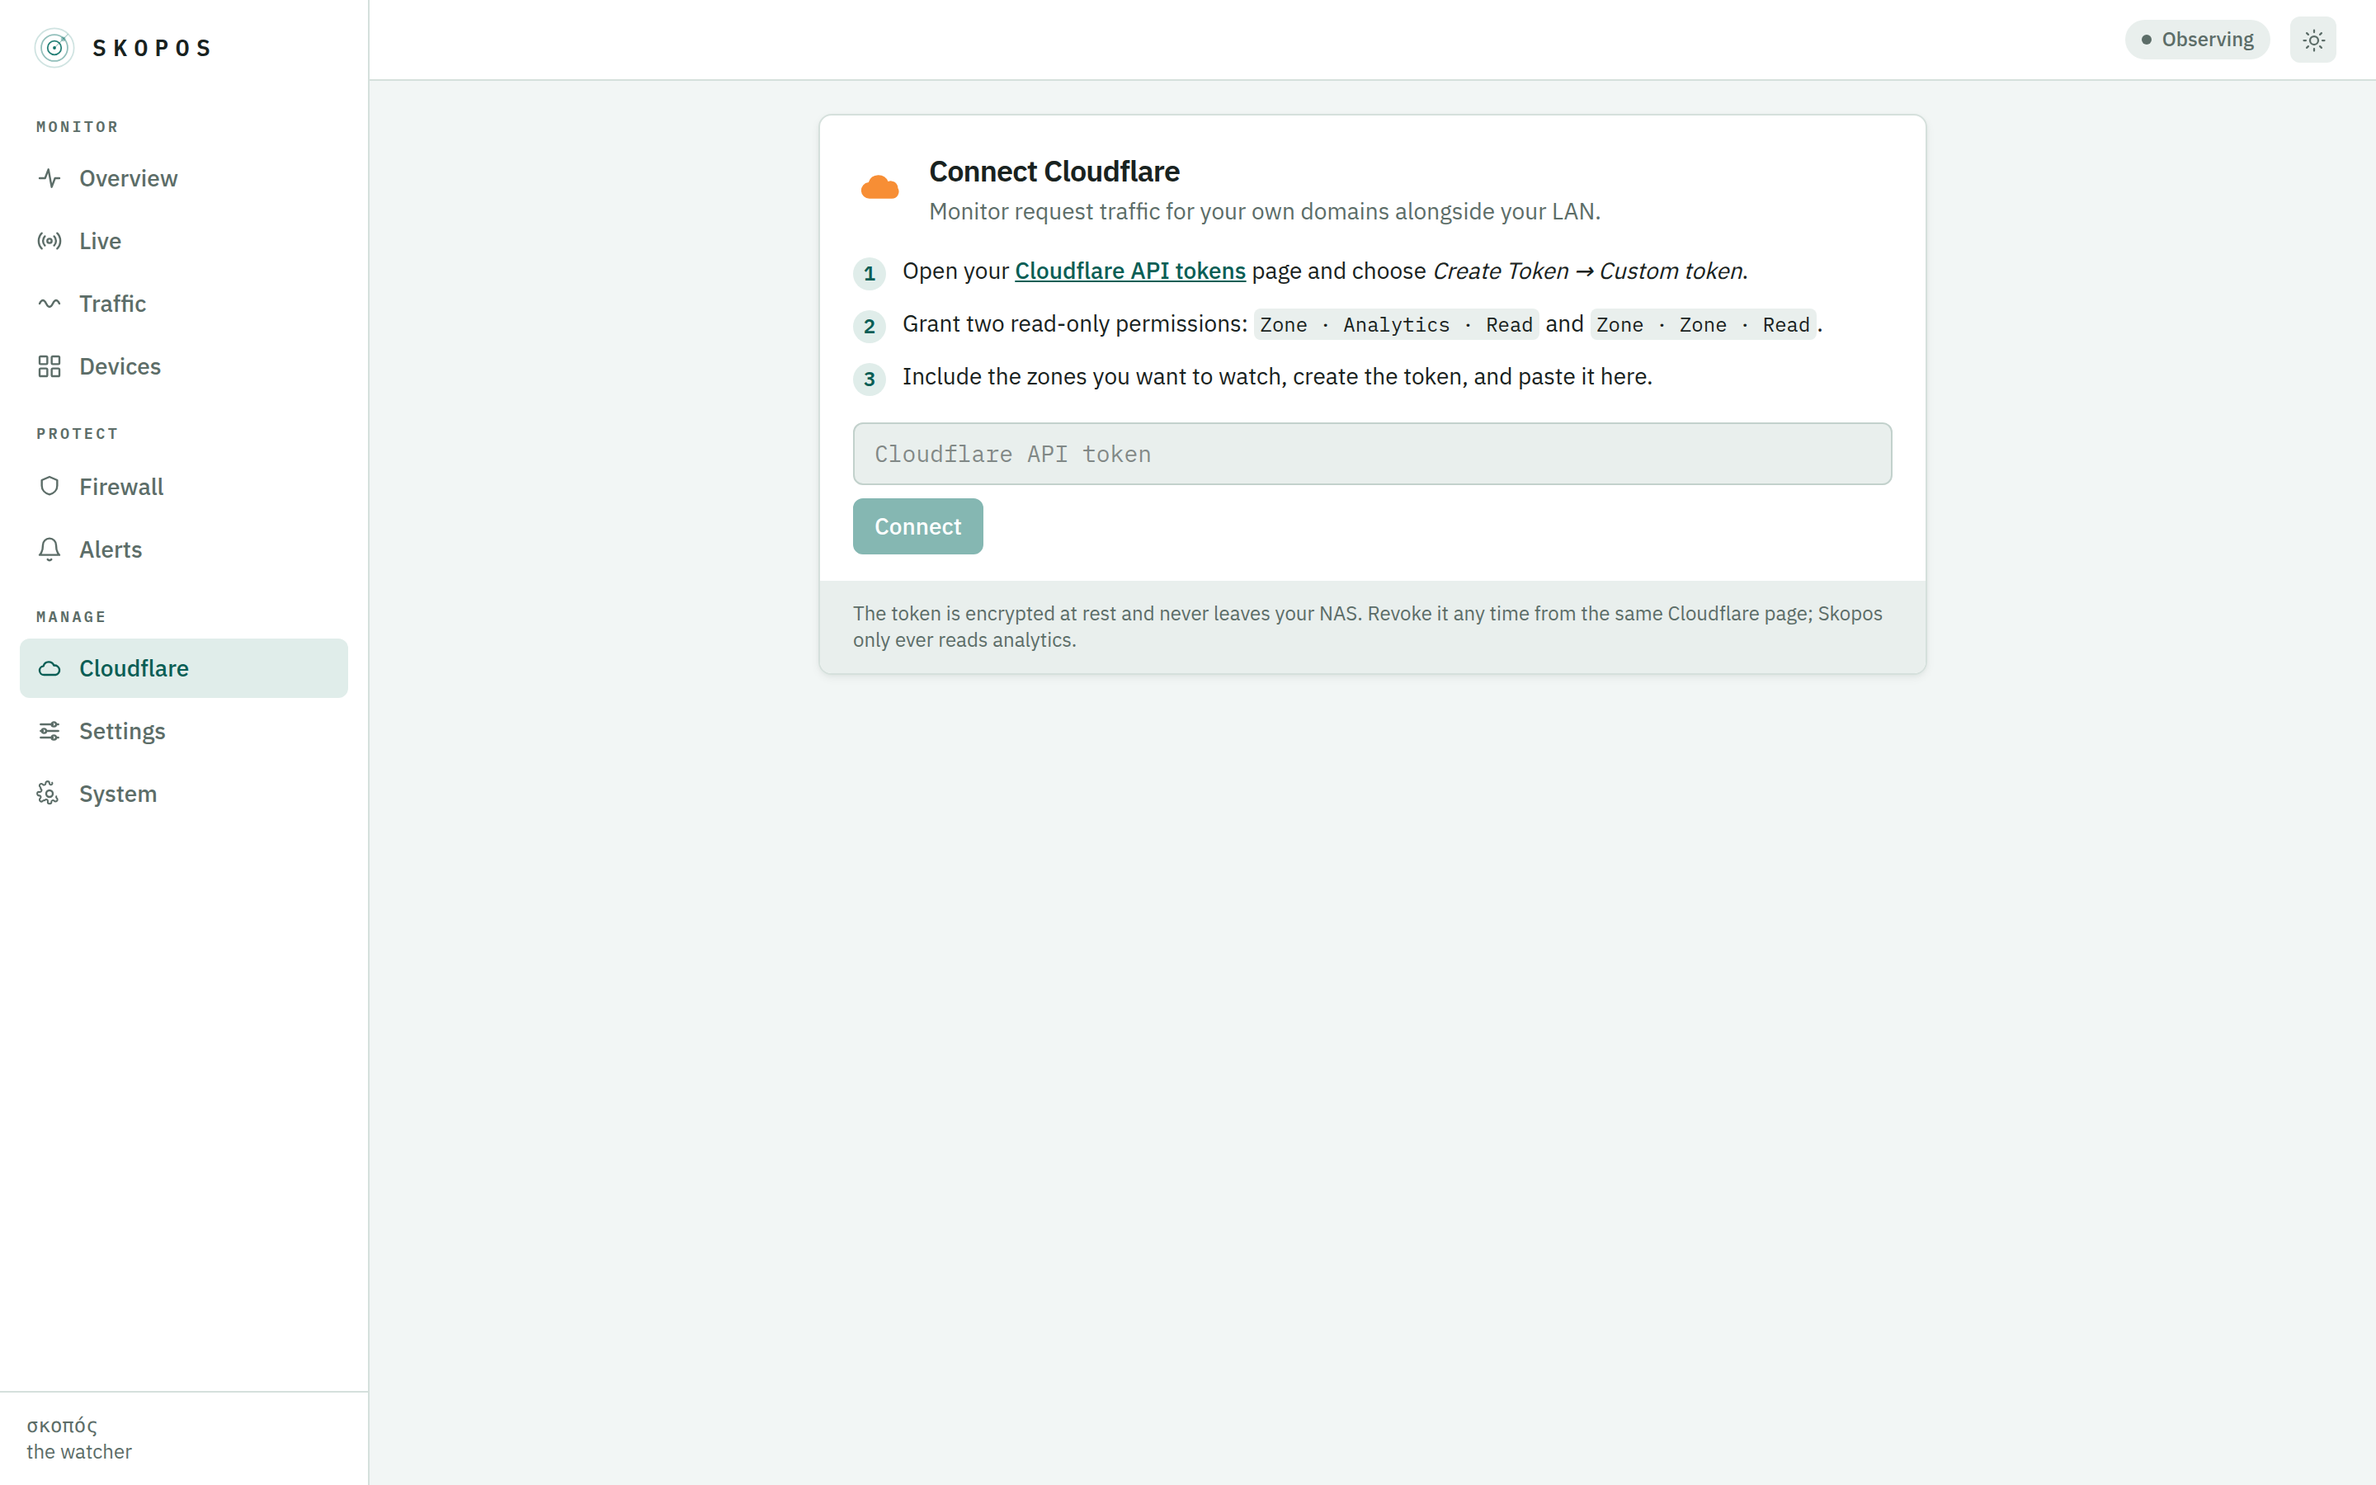
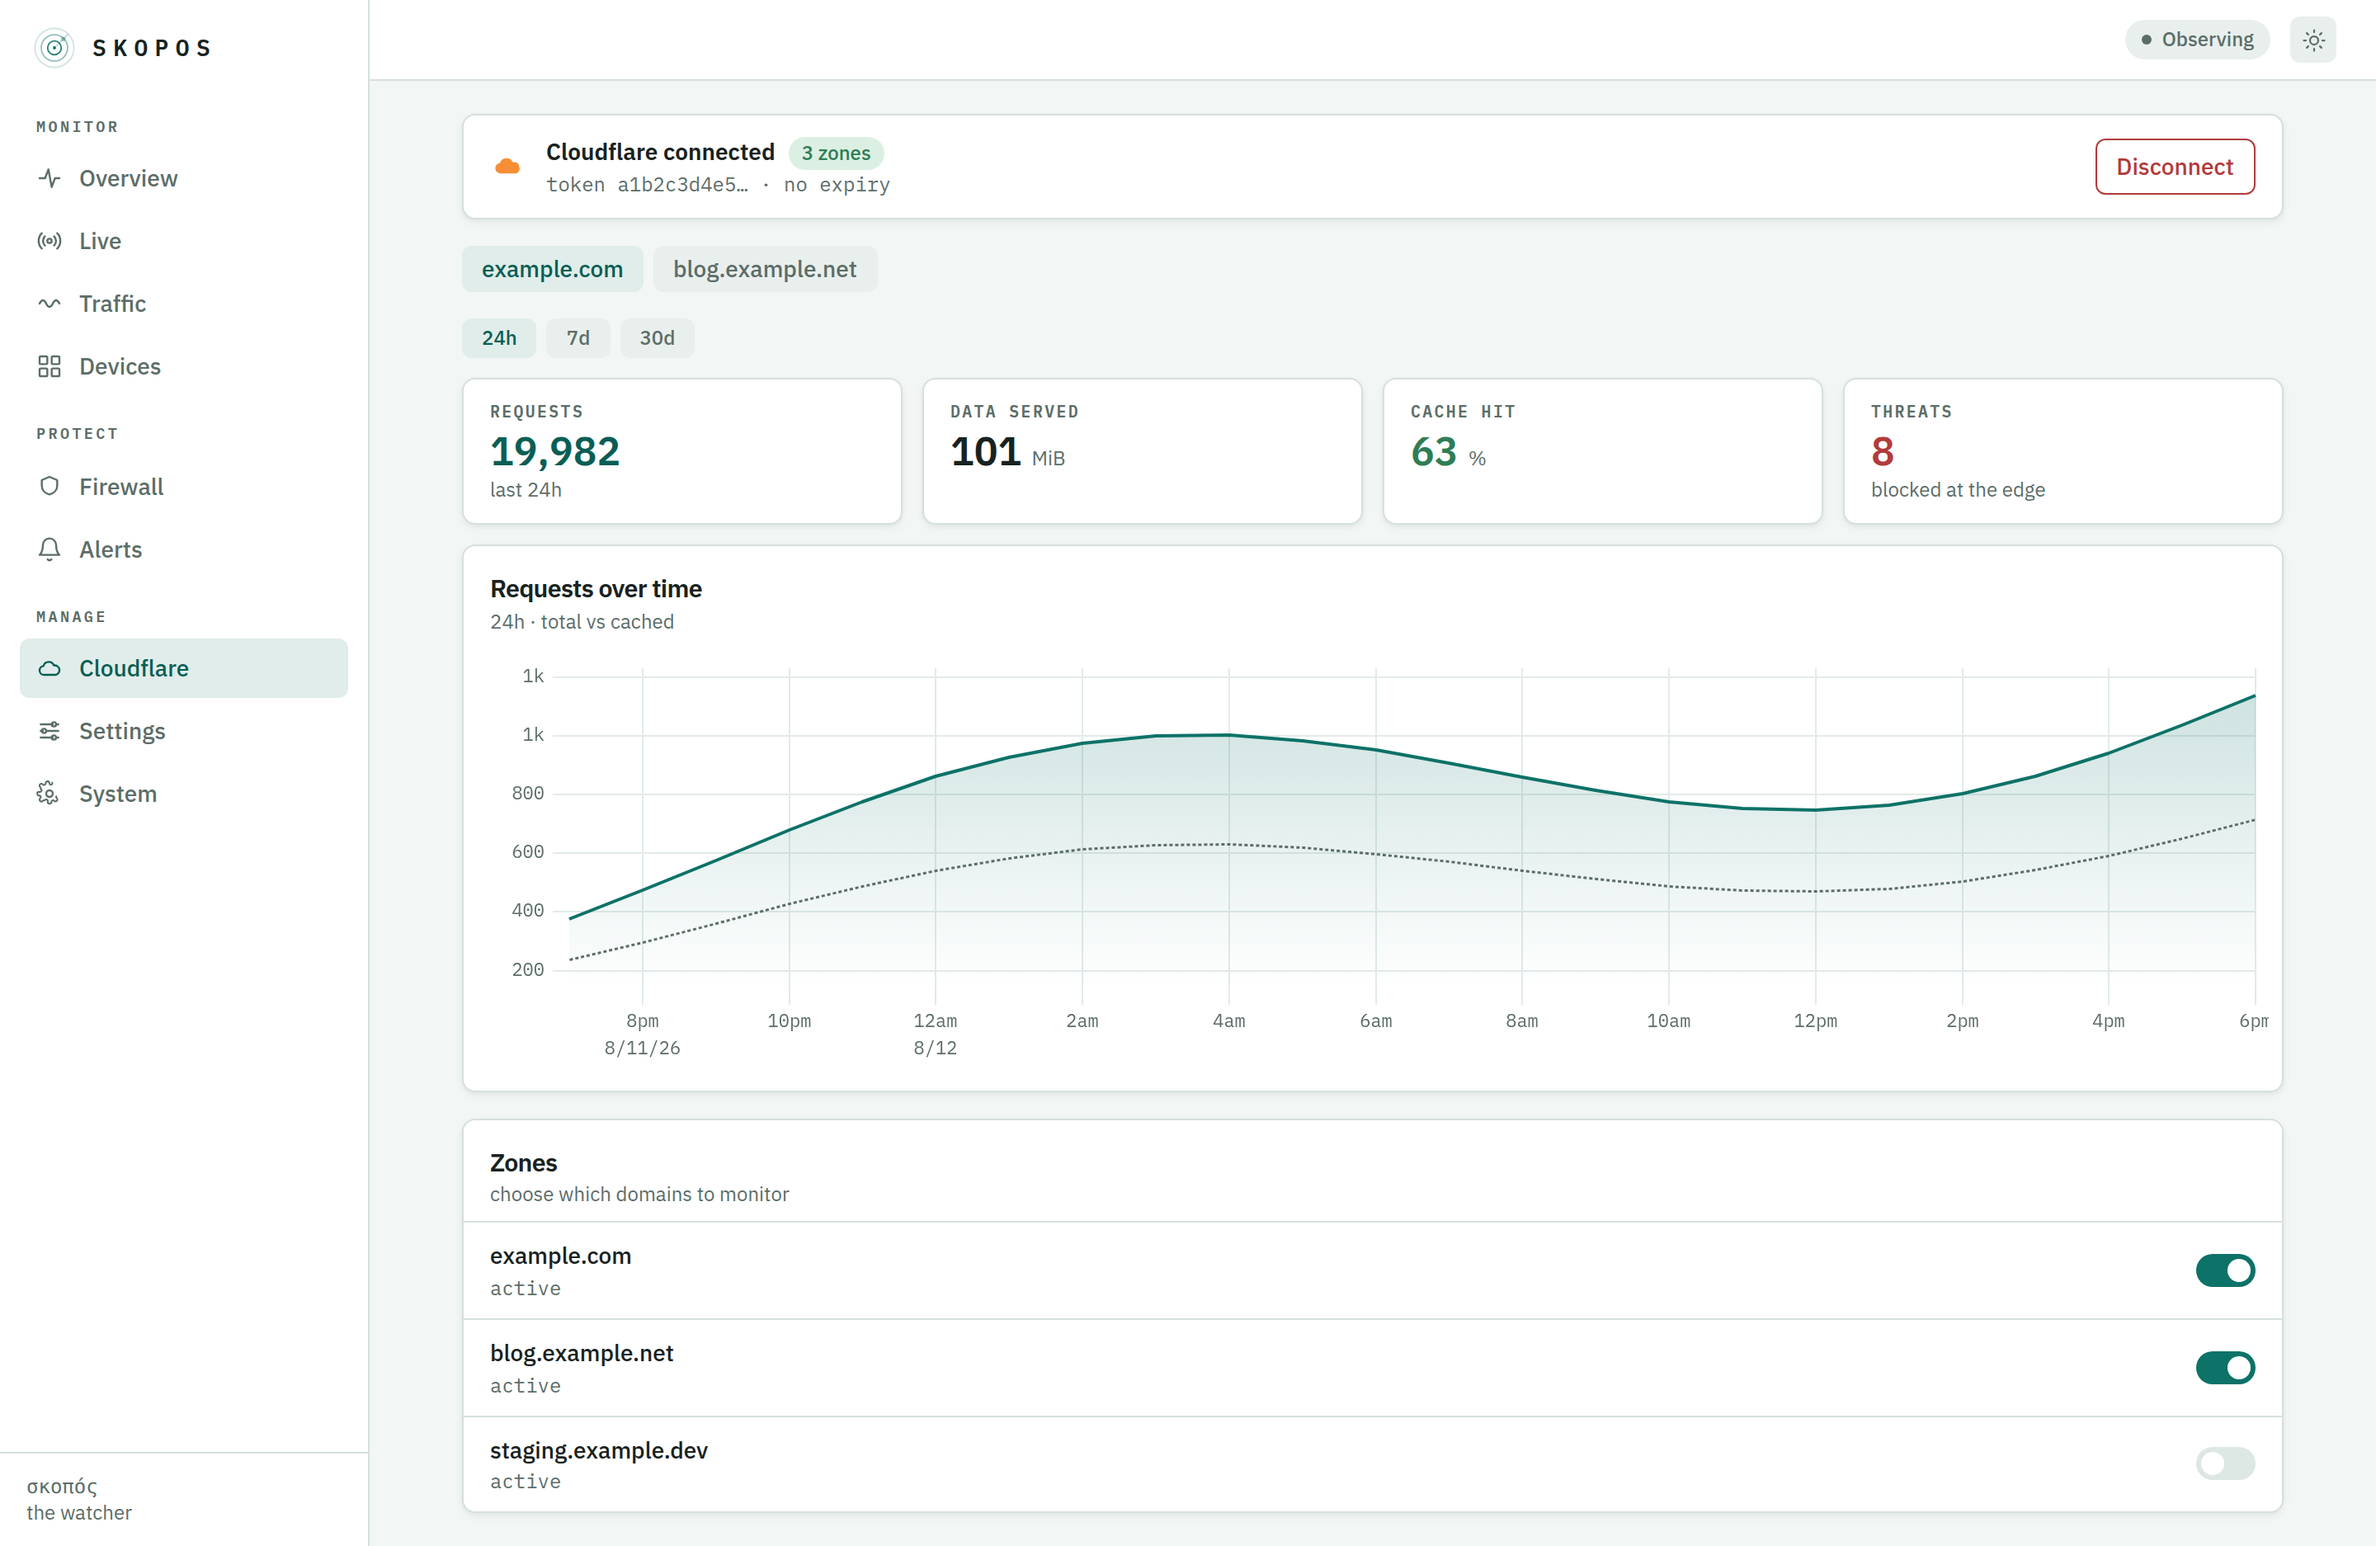
feat(release): commit-pinned edge tags; showcase the new views
Every main build now also publishes an immutable edge-<shortsha> tag next to
the moving edge tag, so a deployment can pin one exact build and a pull can
never silently yield a stale image.

- README and Docker Hub overview: add Live and Cloudflare to the gallery
- screenshots.mjs: deterministic Cloudflare sample data via route interception
  (the demo has no CF account, so the shot would only ever show the connect
  screen), full-page capture for that view, and an optional single-view filter

Claude-Session: https://claude.ai/code/session_01TQ14Bdti9aWwn1QX58hAVg

diff --git a/docs/DOCKERHUB.md b/docs/DOCKERHUB.md
@@ -146,6 +146,10 @@ The entrypoint is the `skopos` binary:
 
 ## Screenshots
 
+| Live view | Cloudflare |
+| --- | --- |
+| ![Live](https://raw.githubusercontent.com/julianhintermann-cmd/Skopos/main/docs/screenshots/live.png) | ![Cloudflare](https://raw.githubusercontent.com/julianhintermann-cmd/Skopos/main/docs/screenshots/cloudflare.png) |
+
 | Alerts | Traffic |
 | --- | --- |
 | ![Alerts](https://raw.githubusercontent.com/julianhintermann-cmd/Skopos/main/docs/screenshots/alerts.png) | ![Traffic](https://raw.githubusercontent.com/julianhintermann-cmd/Skopos/main/docs/screenshots/traffic-light.png) |

diff --git a/README.md b/README.md
@@ -52,6 +52,8 @@ in a single container configured by a single YAML file.
   Skopos stores encrypted — secrets like that never belong in a config file.
 
 <div align="center">
+<img src="docs/screenshots/live.png" alt="Live view — every conversation in real time" width="49%">
+<img src="docs/screenshots/cloudflare.png" alt="Cloudflare zone analytics" width="49%">
 <img src="docs/screenshots/alerts.png" alt="Alerts" width="49%">
 <img src="docs/screenshots/traffic-light.png" alt="Traffic (light)" width="49%">
 </div>
